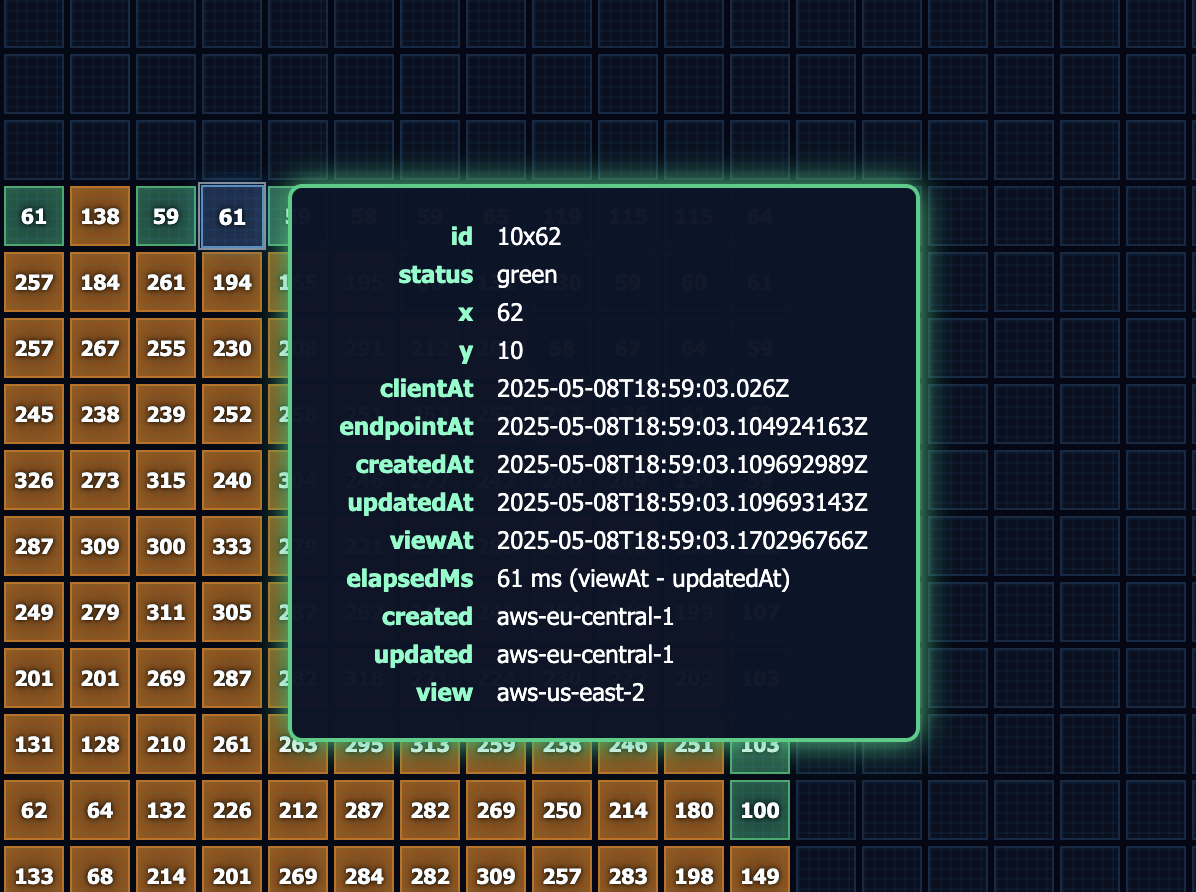
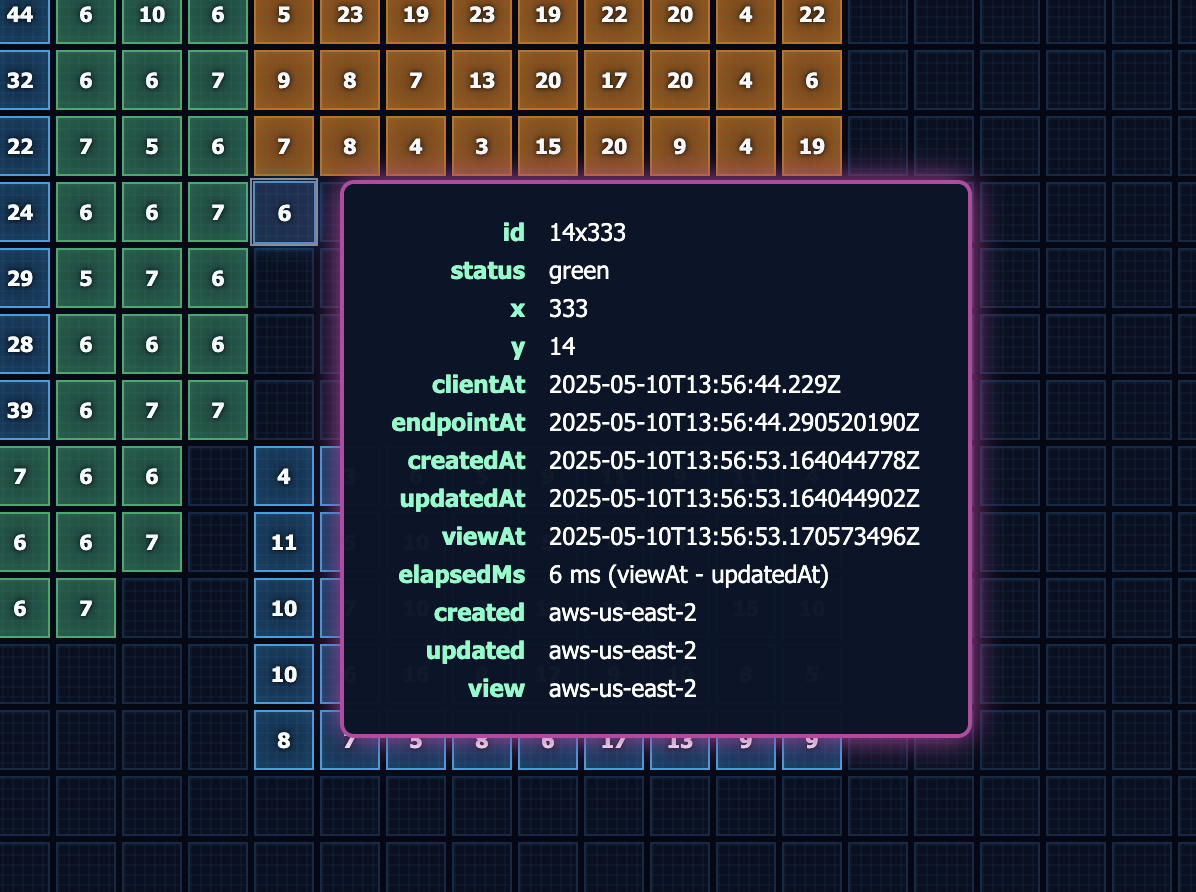
misc tweaks and adjustments

diff --git a/src/main/resources/static-resources/index.js b/src/main/resources/static-resources/index.js
@@ -1003,9 +1003,9 @@ document.addEventListener('DOMContentLoaded', () => {
     overlay.style.justifyContent = 'center';
     overlay.style.alignItems = 'center';
     overlay.style.fontSize = '0.75em';
-    overlay.style.border = '2px solid #0ace83';
+    overlay.style.border = '2px solid #be43a4';
     overlay.style.borderRadius = '7px';
-    overlay.style.boxShadow = '0 0 16px #0ace83';
+    overlay.style.boxShadow = '0 0 16px #be43a4';
     overlay.style.padding = '14px 18px';
     overlay.style.pointerEvents = 'none';
     overlay.style.maxWidth = '350px';
@@ -1155,9 +1155,9 @@ document.addEventListener('DOMContentLoaded', () => {
     overlay.style.alignItems = 'center';
     overlay.style.fontSize = '0.75em';
     overlay.style.padding = '16px 24px';
-    overlay.style.border = '2px solid #0ace83';
+    overlay.style.border = '2px solid #be43a4';
     overlay.style.borderRadius = '7px';
-    overlay.style.boxShadow = '0 0 16px #0ace83';
+    overlay.style.boxShadow = '0 0 16px #be43a4';
     overlay.style.minWidth = pxWidth + 40 + 'px';
     overlay.style.minHeight = pxHeight + 20 + 'px';
     overlay.style.maxWidth = '90vw';
@@ -1198,7 +1198,7 @@ document.addEventListener('DOMContentLoaded', () => {
     table.style.marginBottom = '10px';
     table.style.borderCollapse = 'collapse';
     const p = parsed[0];
-    table.appendChild(createKeyValueRow('', 'ID', p.id, ''));
+    table.appendChild(createKeyValueRow('', 'ID', p.id, p.updated));
     table.appendChild(createKeyValueRow('', 'Endpoint to entity', `${p.updatedAt - p.endpointAt} ms`, p.updated));
     table.appendChild(createKeyValueRow('1', 'Entity to view', `${p.viewAt - p.updatedAt} ms`, p.view));
     for (let i = 1; i < parsed.length; i++) {
@@ -1269,14 +1269,27 @@ document.addEventListener('DOMContentLoaded', () => {
       const xStart = xUpdated;
       const xEnd = msToX(parsed[i].viewAt);
       // Draw a straight line from xUpdated (main line) to this region's viewAt at y
-      const line = document.createElementNS('http://www.w3.org/2000/svg', 'line');
-      line.setAttribute('x1', xStart);
-      line.setAttribute('y1', y);
-      line.setAttribute('x2', xEnd);
-      line.setAttribute('y2', y);
-      line.setAttribute('stroke', '#44ddff');
-      line.setAttribute('stroke-width', '2');
-      svg.appendChild(line);
+      {
+        const line = document.createElementNS('http://www.w3.org/2000/svg', 'line');
+        line.setAttribute('x1', xStart);
+        line.setAttribute('y1', y);
+        line.setAttribute('x2', xEnd);
+        line.setAttribute('y2', y);
+        line.setAttribute('stroke', '#44ddff');
+        line.setAttribute('stroke-width', '2');
+        svg.appendChild(line);
+      }
+      // Draw a vertical line from xUpdated to prior line start
+      {
+        const line = document.createElementNS('http://www.w3.org/2000/svg', 'line');
+        line.setAttribute('x1', xStart);
+        line.setAttribute('y1', y - yStep + 7);
+        line.setAttribute('x2', xStart);
+        line.setAttribute('y2', y);
+        line.setAttribute('stroke', '#44ddff');
+        line.setAttribute('stroke-width', '2');
+        svg.appendChild(line);
+      }
       // Marker at start
       const circStart = document.createElementNS('http://www.w3.org/2000/svg', 'circle');
       circStart.setAttribute('cx', xStart);
@@ -1500,7 +1513,7 @@ document.addEventListener('DOMContentLoaded', () => {
     // Update the URL display to show the viewport position
     // Fetch region name from backend and display
     fetch(`${origin}/sensor/region`)
-      .then((resp) => (resp.ok ? resp.text() : Promise.reject('Unknown')))
+      .then((resp) => (resp.ok ? resp.text() : Promise.reject('local-development')))
       .then((regionName) => {
         regionNameSpan.textContent = regionName.trim();
       })

diff --git a/src/main/resources/static-resources/help.html b/src/main/resources/static-resources/help.html
@@ -290,7 +290,7 @@
             This overlay is particularly useful for visualizing cross-region replication latency, as it shows how quickly updates propagate from the primary region (where the entity is hosted) to
             other regions in the distributed system.
 
-            <div style="text-align: center">
+            <div style="text-align: center; margin: 1em">
               <img src="/static/images/help-cell-timings-overlay.png" alt="Cell Timings Overlay" width="500px" />
             </div>
           </li>
@@ -306,7 +306,7 @@
             </ul>
             This overlay provides comprehensive information about the cell's current state.
 
-            <div style="text-align: center">
+            <div style="text-align: center; margin: 1em">
               <img src="/static/images/help-cell-state-overlay.png" alt="Cell State Overlay" width="500px" />
             </div>
           </li>
@@ -344,6 +344,10 @@
             view row in each region. This includes cross-region replication time and any processing delay in updating the view.
           </li>
         </ul>
+        <p>
+          <b>NOTE:</b> The elapsed time is calculated as the difference between the <code>viewAt</code> and <code>updatedAt</code> timestamps. These timestamps are recorded before the durable I/O
+          operations, so they represent the actual time taken to replicate the entity state change across regions and prior to updating the view row in each region.
+        </p>
         <p>
           This approach provides a real-time visualization of distributed system latency and cross-region replication performance. When you see a cell's elapsed time, it shows how long it took for an
           update in the primary region to be reflected in the current region's view.

diff --git a/src/main/java/io/example/application/SensorEntity.java b/src/main/java/io/example/application/SensorEntity.java
@@ -14,12 +14,12 @@ import io.example.domain.Sensor;
 @ComponentId("sensor")
 public class SensorEntity extends EventSourcedEntity<Sensor.State, Sensor.Event> {
   private final Logger log = LoggerFactory.getLogger(getClass());
-  private final String region;
+  private final String selfRegion;
   private final String entityId;
 
   public SensorEntity(EventSourcedEntityContext context) {
     this.entityId = context.entityId();
-    this.region = context.selfRegion().isEmpty() ? "unknown" : context.selfRegion();
+    this.selfRegion = context.selfRegion().isEmpty() ? "local-development" : context.selfRegion();
   }
 
   @Override
@@ -28,56 +28,57 @@ public class SensorEntity extends EventSourcedEntity<Sensor.State, Sensor.Event>
   }
 
   public Effect<Done> updateStatus(Sensor.Command.UpdateStatus command) {
-    log.info("Region: {}, EntityId: {}\n_State: {}\n_Command: {}", region, entityId, currentState(), command);
+    log.info("Region: {}, EntityId: {}\n_State: {}\n_Command: {}", selfRegion, entityId, currentState(), command);
 
     return effects()
-        .persistAll(currentState().onCommand(command).stream().toList())
+        .persistAll(currentState().onCommand(command.withRegion(selfRegion)).stream().toList())
         .thenReply(newState -> done());
   }
 
   public Effect<Done> updateSpanStatus(Sensor.Command.SpanStatus command) {
-    log.info("Region: {}, EntityId: {}\n_State: {}\n_Command: {}", region, entityId, currentState(), command);
+    log.info("Region: {}, EntityId: {}\n_State: {}\n_Command: {}", selfRegion, entityId, currentState(), command);
 
     return effects()
-        .persistAll(currentState().onCommand(command).stream().toList())
+        .persistAll(currentState().onCommand(command.withRegion(selfRegion)).stream().toList())
         .thenReply(newState -> done());
   }
 
   public Effect<Done> updateFillStatus(Sensor.Command.FillStatus command) {
-    log.info("Region: {}, EntityId: {}\n_State: {}\n_Command: {}", region, entityId, currentState(), command);
+    log.info("Region: {}, EntityId: {}\n_State: {}\n_Command: {}", selfRegion, entityId, currentState(), command);
 
     return effects()
-        .persistAll(currentState().onCommand(command).stream().toList())
+        .persistAll(currentState().onCommand(command.withRegion(selfRegion)).stream().toList())
         .thenReply(newState -> done());
   }
 
   public Effect<Done> updateClearStatus(Sensor.Command.ClearStatus command) {
-    log.info("Region: {}, EntityId: {}\n_State: {}\n_Command: {}", region, entityId, currentState(), command);
+    log.info("Region: {}, EntityId: {}\n_State: {}\n_Command: {}", selfRegion, entityId, currentState(), command);
 
     return effects()
-        .persistAll(currentState().onCommand(command).stream().toList())
+        .persistAll(currentState().onCommand(command.withRegion(selfRegion)).stream().toList())
         .thenReply(newState -> done());
   }
 
   public Effect<Done> updateEraseStatus(Sensor.Command.EraseStatus command) {
-    log.info("Region: {}, EntityId: {}\n_State: {}\n_Command: {}", region, entityId, currentState(), command);
+    log.info("Region: {}, EntityId: {}\n_State: {}\n_Command: {}", selfRegion, entityId, currentState(), command);
 
     return effects()
-        .persistAll(currentState().onCommand(command).stream().toList())
+        .persistAll(currentState().onCommand(command.withRegion(selfRegion)).stream().toList())
         .thenReply(newState -> done());
   }
 
   public ReadOnlyEffect<Sensor.State> get() {
-    log.info("Region: {}, EntityId: {}\n_State: {}", region, entityId, currentState());
+    log.info("Region: {}, EntityId: {}\n_State: {}", selfRegion, entityId, currentState());
+
     if (currentState().isEmpty()) {
-      return effects().error("Sensor not found");
+      return effects().error("Sensor '%s' not found".formatted(entityId));
     }
     return effects().reply(currentState());
   }
 
   @Override
   public Sensor.State applyEvent(Sensor.Event event) {
-    log.info("Region: {}, EntityId: {}\n_State: {}\n_Event: {}", region, entityId, currentState(), event);
+    log.info("Region: {}, EntityId: {}\n_State: {}\n_Event: {}", selfRegion, entityId, currentState(), event);
 
     return switch (event) {
       case Sensor.Event.StatusUpdated e -> currentState().onEvent(e);

diff --git a/src/main/java/io/example/domain/Sensor.java b/src/main/java/io/example/domain/Sensor.java
@@ -255,7 +255,12 @@ public interface Sensor {
         Status status,
         Instant clientAt,
         Instant endpointAt,
-        String region) implements Command {}
+        String region) implements Command {
+
+      public UpdateStatus withRegion(String newRegion) {
+        return new UpdateStatus(id, status, clientAt, endpointAt, newRegion);
+      }
+    }
 
     public record SpanStatus(
         String id,
@@ -265,7 +270,12 @@ public interface Sensor {
         Integer centerX,
         Integer centerY,
         Integer radius,
-        String region) implements Command {}
+        String region) implements Command {
+
+      public SpanStatus withRegion(String newRegion) {
+        return new SpanStatus(id, status, clientAt, endpointAt, centerX, centerY, radius, newRegion);
+      }
+    }
 
     public record FillStatus(
         String id,
@@ -275,14 +285,29 @@ public interface Sensor {
         Integer centerX,
         Integer centerY,
         Integer radius,
-        String region) implements Command {}
+        String region) implements Command {
+
+      public FillStatus withRegion(String newRegion) {
+        return new FillStatus(id, status, clientAt, endpointAt, centerX, centerY, radius, newRegion);
+      }
+    }
 
     public record ClearStatus(
         String id,
-        Status status) implements Command {}
+        Status status) implements Command {
+
+      public ClearStatus withRegion(String newRegion) {
+        return new ClearStatus(id, status);
+      }
+    }
 
     public record EraseStatus(
-        String id) implements Command {}
+        String id) implements Command {
+
+      public EraseStatus withRegion(String newRegion) {
+        return new EraseStatus(id);
+      }
+    }
   }
 
   public sealed interface Event {

diff --git a/src/main/java/io/example/api/SensorEndpoint.java b/src/main/java/io/example/api/SensorEndpoint.java
@@ -153,6 +153,10 @@ public class SensorEndpoint extends AbstractHttpEndpoint {
 
   @Get("/routes")
   public CompletionStage<List<String>> getRoutes() {
+    if (region().equals("local-development")) {
+      var port = config.getInt("akka.javasdk.dev-mode.http-port");
+      return CompletableFuture.completedFuture(List.of("localhost:" + port));
+    }
     try {
       var routes = config.getString("multi-region-routes");
       return CompletableFuture.completedFuture(List.of(routes.split(",")));
@@ -170,7 +174,7 @@ public class SensorEndpoint extends AbstractHttpEndpoint {
   }
 
   String region() {
-    return requestContext().selfRegion().isEmpty() ? "Local Dev" : requestContext().selfRegion();
+    return requestContext().selfRegion().isEmpty() ? "local-development" : requestContext().selfRegion();
   }
 
   public record UpdateSensorRequest(String id, String status, Instant updatedAt, Integer centerX, Integer centerY, Integer radius) {}

diff --git a/src/main/java/io/example/MyServiceSetup.java b/src/main/java/io/example/MyServiceSetup.java
@@ -1,0 +1,25 @@
+package io.example;
+
+import akka.javasdk.annotations.Setup;
+import akka.javasdk.ServiceSetup;
+
+import org.slf4j.Logger;
+import org.slf4j.LoggerFactory;
+
+import com.typesafe.config.Config;
+
+@Setup
+public class MyServiceSetup implements ServiceSetup {
+  private final Logger log = LoggerFactory.getLogger(MyServiceSetup.class);
+  private final Config config;
+
+  public MyServiceSetup(Config config) {
+    this.config = config;
+  }
+
+  @Override
+  public void onStartup() {
+    log.info("Service started");
+    config.entrySet().stream().forEach(entry -> log.info("{} = {}", entry.getKey(), entry.getValue()));
+  }
+}

diff --git a/src/main/java/io/example/application/SensorView.java b/src/main/java/io/example/application/SensorView.java
@@ -95,7 +95,7 @@ public class SensorView extends View {
 
     String region(UpdateContext updateContext) {
       var region = updateContext.selfRegion();
-      return region.isEmpty() ? "local-dev" : region;
+      return region.isEmpty() ? "local-development" : region;
     }
   }
 

diff --git a/src/main/java/io/example/application/SensorToSensorConsumer.java b/src/main/java/io/example/application/SensorToSensorConsumer.java
@@ -102,6 +102,6 @@ public class SensorToSensorConsumer extends Consumer {
 
   String region() {
     var region = messageContext().selfRegion();
-    return region.isEmpty() ? "unknown" : region;
+    return region.isEmpty() ? "local-development" : region;
   }
 }
